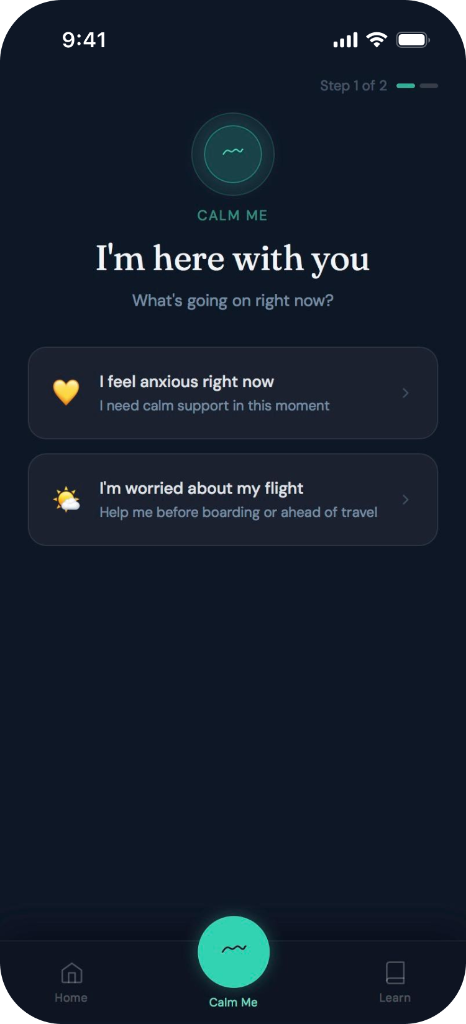
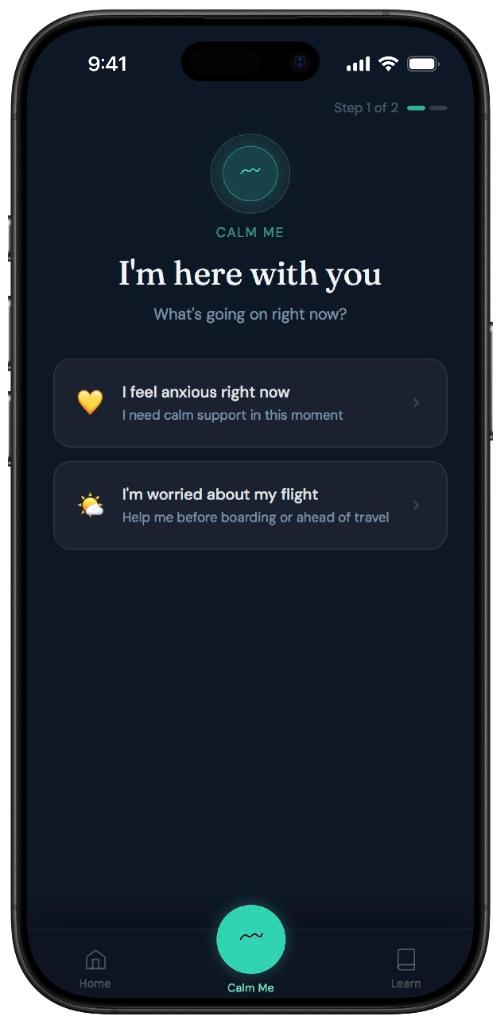
Add files via upload

Changed region(s): [[0.0, 0.0, 1.0, 1.0], [0.1202, 0.3438, 0.721, 0.4375], [0.1202, 0.4688, 0.8112, 0.5312]]

diff --git a/index.html b/index.html
@@ -58,8 +58,8 @@
             
             <section class="hero-visual">
                 <div class="mockup-container">
-                    <img src="assets/app-preview-1.png" alt="SteadyAir App Preview - Calm Support" class="app-mockup">
-                    <img src="assets/app-preview-2.png" alt="SteadyAir App Preview - Grounding Exercises" class="app-mockup">
+                    <img src="assets/app-preview-1-framed.png" alt="SteadyAir App Preview - Calm Support" class="app-mockup">
+                    <img src="assets/app-preview-2-framed.png" alt="SteadyAir App Preview - Grounding Exercises" class="app-mockup">
                 </div>
                 
                 <div class="audio-preview-card" id="audioCard">
